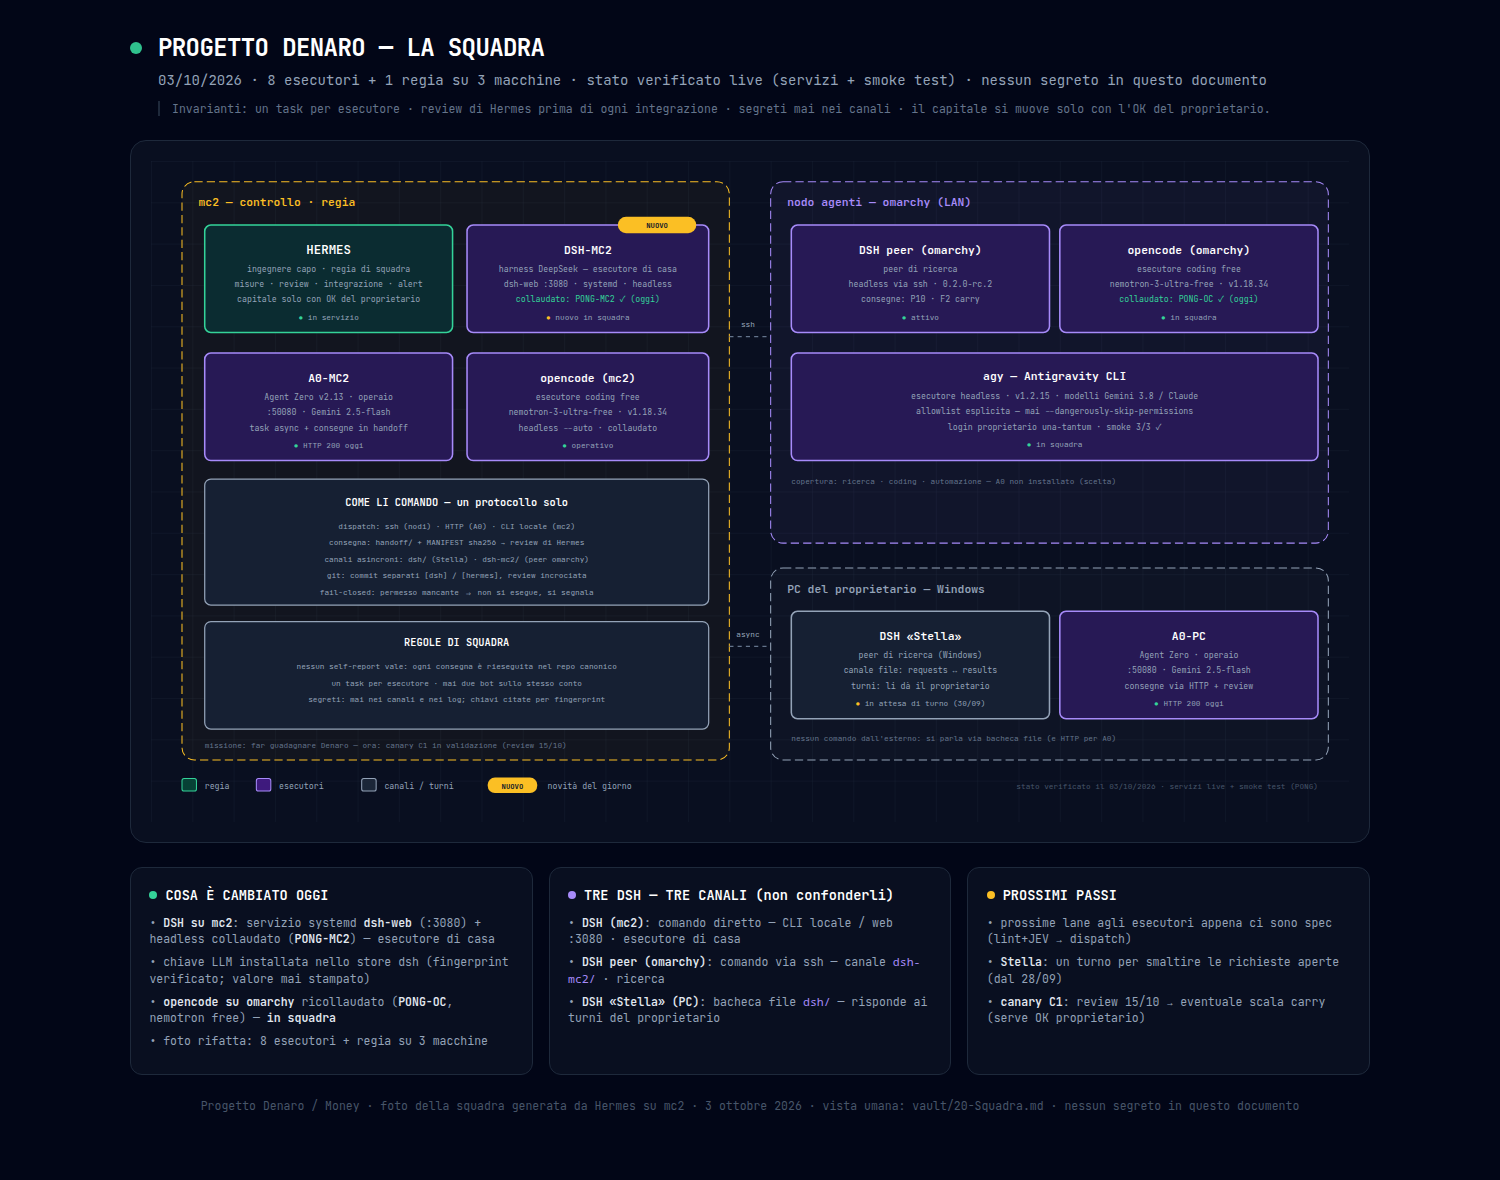
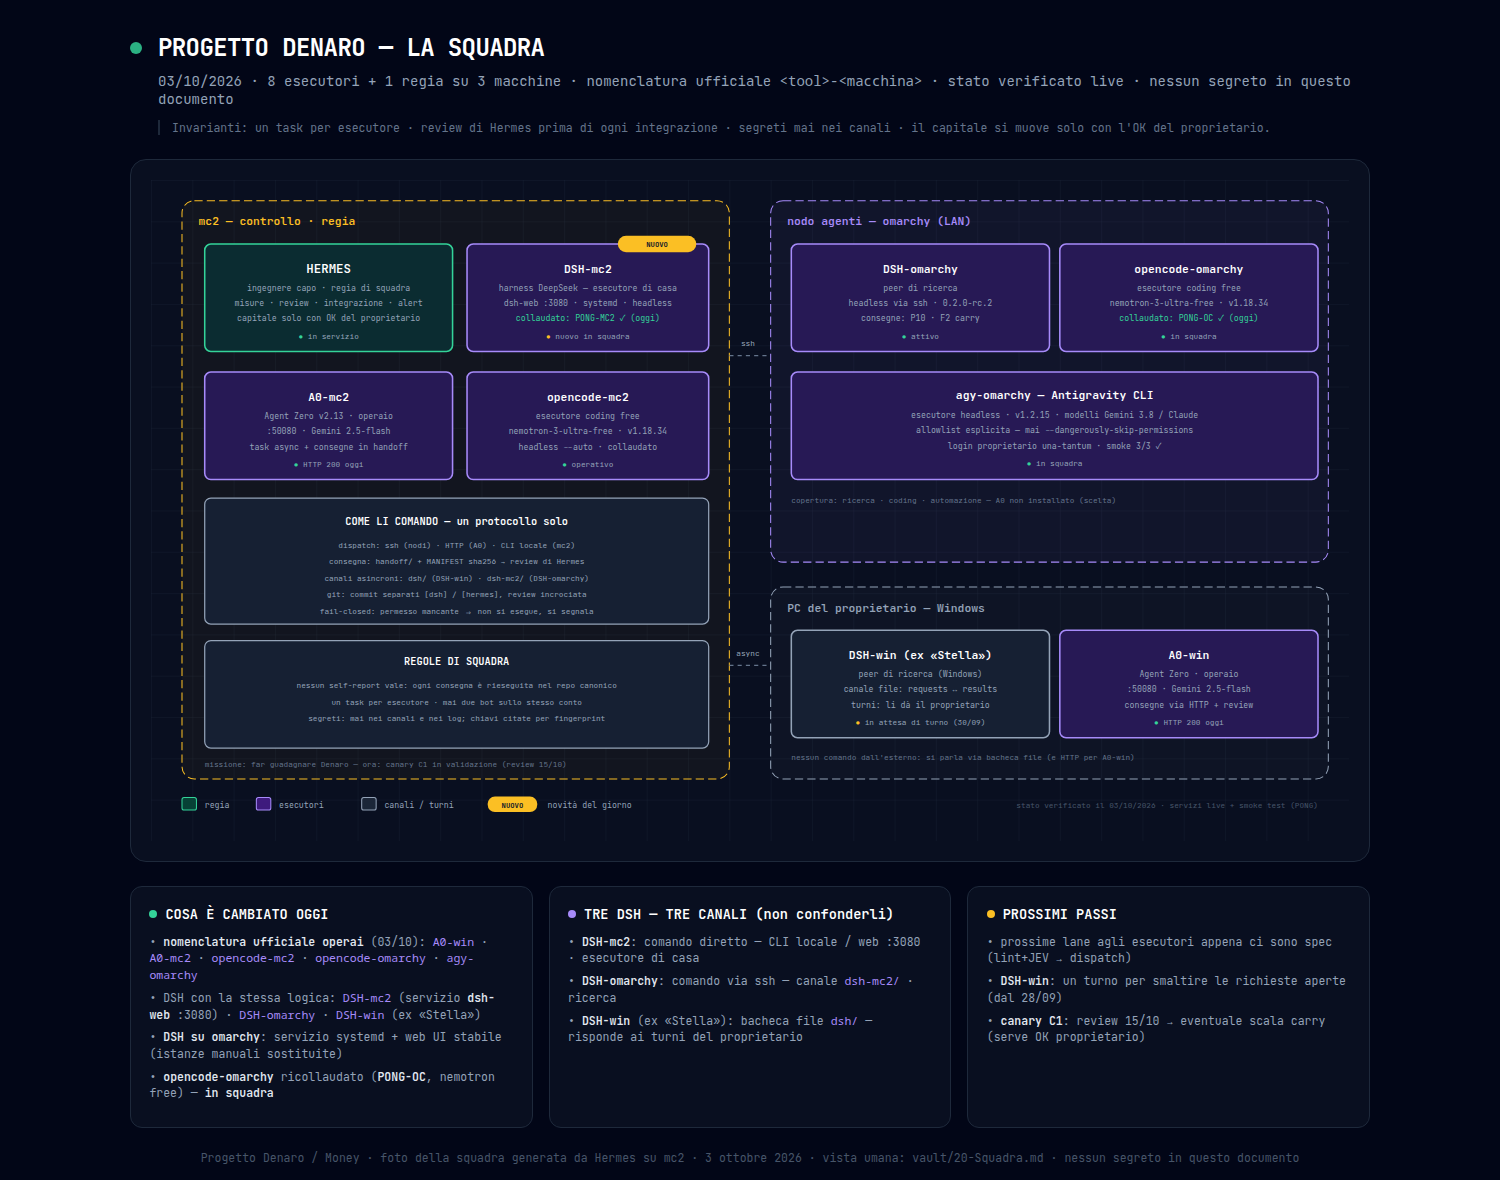
[hermes] nomenclatura ufficiale <tool>-<macchina>: A0-win/-mc2, opencode-mc2/-omarchy, agy-omarchy, DSH-mc2/-omarchy/-win (ex Stella) — foto squadra + vault + skill + canali aggiornati

diff --git a/FOTO_SQUADRA_2026-10-03.html b/FOTO_SQUADRA_2026-10-03.html
@@ -67,7 +67,7 @@
         <div class="pulse-dot"></div>
         <h1>PROGETTO DENARO — LA SQUADRA</h1>
       </div>
-      <p class="subtitle">03/10/2026 · 8 esecutori + 1 regia su 3 macchine · stato verificato live (servizi + smoke test) · nessun segreto in questo documento</p>
+      <p class="subtitle">03/10/2026 · 8 esecutori + 1 regia su 3 macchine · nomenclatura ufficiale <code>&lt;tool&gt;-&lt;macchina&gt;</code> · stato verificato live · nessun segreto in questo documento</p>
       <p class="invarianti">Invarianti: un task per esecutore · review di Hermes prima di ogni integrazione · segreti mai nei canali · il capitale si muove solo con l'OK del proprietario.</p>
     </div>
 
@@ -111,30 +111,30 @@
         <text x="172" y="137" fill="#94a3b8" font-size="8" text-anchor="middle">capitale solo con OK del proprietario</text>
         <text x="172" y="154" font-size="7.5" text-anchor="middle"><tspan fill="#34d399">●</tspan><tspan fill="#94a3b8"> in servizio</tspan></text>
 
-        <!-- DSH-MC2 -->
+        <!-- DSH-mc2 -->
         <rect x="306" y="62" width="234" height="104" rx="6" fill="rgba(15, 23, 42, 1)"/>
         <rect x="306" y="62" width="234" height="104" rx="6" fill="rgba(76, 29, 149, 0.4)" stroke="#a78bfa" stroke-width="1.5"/>
         <rect x="452" y="54" width="76" height="16" rx="8" fill="#fbbf24"/>
         <text x="490" y="65" fill="#0f172a" font-size="7" font-weight="700" text-anchor="middle">NUOVO</text>
-        <text x="423" y="90" fill="white" font-size="11" font-weight="600" text-anchor="middle">DSH-MC2</text>
+        <text x="423" y="90" fill="white" font-size="11" font-weight="600" text-anchor="middle">DSH-mc2</text>
         <text x="423" y="107" fill="#94a3b8" font-size="8" text-anchor="middle">harness DeepSeek — esecutore di casa</text>
         <text x="423" y="122" fill="#94a3b8" font-size="8" text-anchor="middle">dsh-web :3080 · systemd · headless</text>
         <text x="423" y="137" fill="#34d399" font-size="8" text-anchor="middle">collaudato: PONG-MC2 ✓ (oggi)</text>
         <text x="423" y="154" font-size="7.5" text-anchor="middle"><tspan fill="#fbbf24">●</tspan><tspan fill="#94a3b8"> nuovo in squadra</tspan></text>
 
-        <!-- A0-MC2 -->
+        <!-- A0-mc2 -->
         <rect x="52" y="186" width="240" height="104" rx="6" fill="rgba(15, 23, 42, 1)"/>
         <rect x="52" y="186" width="240" height="104" rx="6" fill="rgba(76, 29, 149, 0.4)" stroke="#a78bfa" stroke-width="1.5"/>
-        <text x="172" y="214" fill="white" font-size="11" font-weight="600" text-anchor="middle">A0-MC2</text>
+        <text x="172" y="214" fill="white" font-size="11" font-weight="600" text-anchor="middle">A0-mc2</text>
         <text x="172" y="231" fill="#94a3b8" font-size="8" text-anchor="middle">Agent Zero v2.13 · operaio</text>
         <text x="172" y="246" fill="#94a3b8" font-size="8" text-anchor="middle">:50080 · Gemini 2.5-flash</text>
         <text x="172" y="261" fill="#94a3b8" font-size="8" text-anchor="middle">task async + consegne in handoff</text>
         <text x="172" y="278" font-size="7.5" text-anchor="middle"><tspan fill="#34d399">●</tspan><tspan fill="#94a3b8"> HTTP 200 oggi</tspan></text>
 
-        <!-- opencode MC2 -->
+        <!-- opencode-mc2 -->
         <rect x="306" y="186" width="234" height="104" rx="6" fill="rgba(15, 23, 42, 1)"/>
         <rect x="306" y="186" width="234" height="104" rx="6" fill="rgba(76, 29, 149, 0.4)" stroke="#a78bfa" stroke-width="1.5"/>
-        <text x="423" y="214" fill="white" font-size="11" font-weight="600" text-anchor="middle">opencode (mc2)</text>
+        <text x="423" y="214" fill="white" font-size="11" font-weight="600" text-anchor="middle">opencode-mc2</text>
         <text x="423" y="231" fill="#94a3b8" font-size="8" text-anchor="middle">esecutore coding free</text>
         <text x="423" y="246" fill="#94a3b8" font-size="8" text-anchor="middle">nemotron-3-ultra-free · v1.18.34</text>
         <text x="423" y="261" fill="#94a3b8" font-size="8" text-anchor="middle">headless --auto · collaudato</text>
@@ -146,7 +146,7 @@
         <text x="296" y="334" fill="white" font-size="10" font-weight="600" text-anchor="middle">COME LI COMANDO — un protocollo solo</text>
         <text x="296" y="356" fill="#94a3b8" font-size="7.5" text-anchor="middle">dispatch: ssh (nodi) · HTTP (A0) · CLI locale (mc2)</text>
         <text x="296" y="372" fill="#94a3b8" font-size="7.5" text-anchor="middle">consegna: handoff/ + MANIFEST sha256 → review di Hermes</text>
-        <text x="296" y="388" fill="#94a3b8" font-size="7.5" text-anchor="middle">canali asincroni: dsh/ (Stella) · dsh-mc2/ (peer omarchy)</text>
+        <text x="296" y="388" fill="#94a3b8" font-size="7.5" text-anchor="middle">canali asincroni: dsh/ (DSH-win) · dsh-mc2/ (DSH-omarchy)</text>
         <text x="296" y="404" fill="#94a3b8" font-size="7.5" text-anchor="middle">git: commit separati [dsh] / [hermes], review incrociata</text>
         <text x="296" y="420" fill="#94a3b8" font-size="7.5" text-anchor="middle">fail-closed: permesso mancante ⇒ non si esegue, si segnala</text>
 
@@ -161,28 +161,28 @@
         <text x="52" y="568" fill="#64748b" font-size="7.5">missione: far guadagnare Denaro — ora: canary C1 in validazione (review 15/10)</text>
 
         <!-- ============ OMARCHY CONTENT ============ -->
-        <!-- DSH omarchy -->
+        <!-- DSH-omarchy -->
         <rect x="620" y="62" width="250" height="104" rx="6" fill="rgba(15, 23, 42, 1)"/>
         <rect x="620" y="62" width="250" height="104" rx="6" fill="rgba(76, 29, 149, 0.4)" stroke="#a78bfa" stroke-width="1.5"/>
-        <text x="745" y="90" fill="white" font-size="11" font-weight="600" text-anchor="middle">DSH peer (omarchy)</text>
+        <text x="745" y="90" fill="white" font-size="11" font-weight="600" text-anchor="middle">DSH-omarchy</text>
         <text x="745" y="107" fill="#94a3b8" font-size="8" text-anchor="middle">peer di ricerca</text>
         <text x="745" y="122" fill="#94a3b8" font-size="8" text-anchor="middle">headless via ssh · 0.2.0-rc.2</text>
         <text x="745" y="137" fill="#94a3b8" font-size="8" text-anchor="middle">consegne: P10 · F2 carry</text>
         <text x="745" y="154" font-size="7.5" text-anchor="middle"><tspan fill="#34d399">●</tspan><tspan fill="#94a3b8"> attivo</tspan></text>
 
-        <!-- opencode omarchy -->
+        <!-- opencode-omarchy -->
         <rect x="880" y="62" width="250" height="104" rx="6" fill="rgba(15, 23, 42, 1)"/>
         <rect x="880" y="62" width="250" height="104" rx="6" fill="rgba(76, 29, 149, 0.4)" stroke="#a78bfa" stroke-width="1.5"/>
-        <text x="1005" y="90" fill="white" font-size="11" font-weight="600" text-anchor="middle">opencode (omarchy)</text>
+        <text x="1005" y="90" fill="white" font-size="11" font-weight="600" text-anchor="middle">opencode-omarchy</text>
         <text x="1005" y="107" fill="#94a3b8" font-size="8" text-anchor="middle">esecutore coding free</text>
         <text x="1005" y="122" fill="#94a3b8" font-size="8" text-anchor="middle">nemotron-3-ultra-free · v1.18.34</text>
         <text x="1005" y="137" fill="#34d399" font-size="8" text-anchor="middle">collaudato: PONG-OC ✓ (oggi)</text>
         <text x="1005" y="154" font-size="7.5" text-anchor="middle"><tspan fill="#34d399">●</tspan><tspan fill="#94a3b8"> in squadra</tspan></text>
 
-        <!-- agy -->
+        <!-- agy-omarchy -->
         <rect x="620" y="186" width="510" height="104" rx="6" fill="rgba(15, 23, 42, 1)"/>
         <rect x="620" y="186" width="510" height="104" rx="6" fill="rgba(76, 29, 149, 0.4)" stroke="#a78bfa" stroke-width="1.5"/>
-        <text x="875" y="212" fill="white" font-size="11" font-weight="600" text-anchor="middle">agy — Antigravity CLI</text>
+        <text x="875" y="212" fill="white" font-size="11" font-weight="600" text-anchor="middle">agy-omarchy — Antigravity CLI</text>
         <text x="875" y="230" fill="#94a3b8" font-size="8" text-anchor="middle">esecutore headless · v1.2.15 · modelli Gemini 3.8 / Claude</text>
         <text x="875" y="245" fill="#94a3b8" font-size="8" text-anchor="middle">allowlist esplicita — mai --dangerously-skip-permissions</text>
         <text x="875" y="260" fill="#94a3b8" font-size="8" text-anchor="middle">login proprietario una-tantum · smoke 3/3 ✓</text>
@@ -190,24 +190,24 @@
         <text x="620" y="313" fill="#64748b" font-size="7.5">copertura: ricerca · coding · automazione — A0 non installato (scelta)</text>
 
         <!-- ============ PC CONTENT ============ -->
-        <!-- Stella -->
+        <!-- DSH-win -->
         <rect x="620" y="436" width="250" height="104" rx="6" fill="rgba(15, 23, 42, 1)"/>
         <rect x="620" y="436" width="250" height="104" rx="6" fill="rgba(30, 41, 59, 0.5)" stroke="#94a3b8" stroke-width="1.5"/>
-        <text x="745" y="464" fill="white" font-size="11" font-weight="600" text-anchor="middle">DSH «Stella»</text>
+        <text x="745" y="464" fill="white" font-size="11" font-weight="600" text-anchor="middle">DSH-win (ex «Stella»)</text>
         <text x="745" y="481" fill="#94a3b8" font-size="8" text-anchor="middle">peer di ricerca (Windows)</text>
         <text x="745" y="496" fill="#94a3b8" font-size="8" text-anchor="middle">canale file: requests ↔ results</text>
         <text x="745" y="511" fill="#94a3b8" font-size="8" text-anchor="middle">turni: li dà il proprietario</text>
         <text x="745" y="528" font-size="7.5" text-anchor="middle"><tspan fill="#fbbf24">●</tspan><tspan fill="#94a3b8"> in attesa di turno (30/09)</tspan></text>
 
-        <!-- A0-PC -->
+        <!-- A0-win -->
         <rect x="880" y="436" width="250" height="104" rx="6" fill="rgba(15, 23, 42, 1)"/>
         <rect x="880" y="436" width="250" height="104" rx="6" fill="rgba(76, 29, 149, 0.4)" stroke="#a78bfa" stroke-width="1.5"/>
-        <text x="1005" y="464" fill="white" font-size="11" font-weight="600" text-anchor="middle">A0-PC</text>
+        <text x="1005" y="464" fill="white" font-size="11" font-weight="600" text-anchor="middle">A0-win</text>
         <text x="1005" y="481" fill="#94a3b8" font-size="8" text-anchor="middle">Agent Zero · operaio</text>
         <text x="1005" y="496" fill="#94a3b8" font-size="8" text-anchor="middle">:50080 · Gemini 2.5-flash</text>
         <text x="1005" y="511" fill="#94a3b8" font-size="8" text-anchor="middle">consegne via HTTP + review</text>
         <text x="1005" y="528" font-size="7.5" text-anchor="middle"><tspan fill="#34d399">●</tspan><tspan fill="#94a3b8"> HTTP 200 oggi</tspan></text>
-        <text x="620" y="562" fill="#64748b" font-size="7.5">nessun comando dall'esterno: si parla via bacheca file (e HTTP per A0)</text>
+        <text x="620" y="562" fill="#64748b" font-size="7.5">nessun comando dall'esterno: si parla via bacheca file (e HTTP per A0-win)</text>
 
         <!-- ============ LEGEND ============ -->
         <rect x="30" y="598" width="14" height="12" rx="2" fill="rgba(6, 78, 59, 0.8)" stroke="#34d399" stroke-width="1"/>
@@ -231,10 +231,10 @@
           <h3>COSA È CAMBIATO OGGI</h3>
         </div>
         <ul>
-          <li>• <b>DSH su mc2</b>: servizio systemd <b>dsh-web</b> (:3080) + headless collaudato (<b>PONG-MC2</b>) — esecutore di casa</li>
-          <li>• chiave LLM installata nello store dsh (fingerprint verificato; valore mai stampato)</li>
-          <li>• <b>opencode su omarchy</b> ricollaudato (<b>PONG-OC</b>, nemotron free) — <b>in squadra</b></li>
-          <li>• foto rifatta: 8 esecutori + regia su 3 macchine</li>
+          <li>• <b>nomenclatura ufficiale operai</b> (03/10): <code>A0-win</code> · <code>A0-mc2</code> · <code>opencode-mc2</code> · <code>opencode-omarchy</code> · <code>agy-omarchy</code></li>
+          <li>• DSH con la stessa logica: <code>DSH-mc2</code> (servizio <b>dsh-web</b> :3080) · <code>DSH-omarchy</code> · <code>DSH-win</code> (ex «Stella»)</li>
+          <li>• <b>DSH su omarchy</b>: servizio systemd + web UI stabile (istanze manuali sostituite)</li>
+          <li>• <b>opencode-omarchy</b> ricollaudato (<b>PONG-OC</b>, nemotron free) — <b>in squadra</b></li>
         </ul>
       </div>
 
@@ -244,9 +244,9 @@
           <h3>TRE DSH — TRE CANALI (non confonderli)</h3>
         </div>
         <ul>
-          <li>• <b>DSH (mc2)</b>: comando diretto — CLI locale / web :3080 · esecutore di casa</li>
-          <li>• <b>DSH peer (omarchy)</b>: comando via ssh — canale <code>dsh-mc2/</code> · ricerca</li>
-          <li>• <b>DSH «Stella» (PC)</b>: bacheca file <code>dsh/</code> — risponde ai turni del proprietario</li>
+          <li>• <b>DSH-mc2</b>: comando diretto — CLI locale / web :3080 · esecutore di casa</li>
+          <li>• <b>DSH-omarchy</b>: comando via ssh — canale <code>dsh-mc2/</code> · ricerca</li>
+          <li>• <b>DSH-win</b> (ex «Stella»): bacheca file <code>dsh/</code> — risponde ai turni del proprietario</li>
         </ul>
       </div>
 
@@ -257,7 +257,7 @@
         </div>
         <ul>
           <li>• prossime lane agli esecutori appena ci sono spec (lint+JEV → dispatch)</li>
-          <li>• <b>Stella</b>: un turno per smaltire le richieste aperte (dal 28/09)</li>
+          <li>• <b>DSH-win</b>: un turno per smaltire le richieste aperte (dal 28/09)</li>
           <li>• <b>canary C1</b>: review 15/10 → eventuale scala carry (serve OK proprietario)</li>
         </ul>
       </div>

diff --git a/vault/20-Squadra.md b/vault/20-Squadra.md
@@ -1,24 +1,27 @@
 # Squadra e canali
 
 Aggiornata: **03/10/2026** — la squadra ora ha **8 esecutori + 1 regia, su 3 macchine**.
+**Nomenclatura ufficiale (dal 03/10): `<tool>-<macchina>`** — es. `A0-win`, `opencode-omarchy`.
 
 ## Chi (foto: `money/FOTO_SQUADRA_2026-10-03.png`)
 
 | Chi | Dove | Ruolo |
 |---|---|---|
-| **Hermes** | mc2 | ingegnere capo: misura, integra, orchestra; riesegue e verifica ogni consegna |
-| **DSH (mc2)** | mc2 | esecutore di casa — harness DeepSeek: servizio `dsh-web` :3080 + headless CLI (collaudato 03/10) |
-| **DSH peer** | nodo agenti (omarchy) | ricerca via ssh; canale `hermes_bridge/dsh-mc2/` (P10, F2 carry) |
-| **DSH «Stella»** | PC del proprietario | peer di ricerca; canale file `hermes_bridge/dsh/` — risponde quando ha un turno |
-| **A0-MC2 · A0-PC** | mc2 + PC | operai Agent Zero (task async, consegne in handoff) — Gemini 2.5 |
-| **opencode ×2** | mc2 + nodo agenti | coding free (nemotron-3-ultra), collaudati 03/10 |
-| **agy (Antigravity)** | nodo agenti | esecutore headless (Gemini 3.8 / Claude) — allowlist |
-| **Proprietario** | — | decide, autorizza il live, dà i turni a Stella |
+| **Hermes** | mc2 | regia: misura, integra, orchestra; riesegue e verifica ogni consegna |
+| **A0-win** | PC (Windows) | operaio — Agent Zero v2.13, Gemini 2.5-flash (:50080) |
+| **A0-mc2** | mc2 (container) | operaio — Agent Zero v2.13, Gemini 2.5-flash (:50080) |
+| **opencode-mc2** | mc2 | operaio coding — nemotron-3-ultra free (headless --auto) |
+| **opencode-omarchy** | nodo agenti (omarchy) | operaio coding — nemotron-3-ultra free (collaudato 03/10) |
+| **agy-omarchy** | nodo agenti (omarchy) | operaio headless — Antigravity CLI (Gemini 3.8 / Claude), allowlist |
+| **DSH-mc2** | mc2 | peer — harness DeepSeek: servizio `dsh-web` :3080 + headless (collaudato 03/10) |
+| **DSH-omarchy** | nodo agenti (omarchy) | peer ricerca via ssh; canale `hermes_bridge/dsh-mc2/` (P10, F2 carry) |
+| **DSH-win** (ex «Stella») | PC (Windows) | peer storico; canale file `hermes_bridge/dsh/` — risponde quando ha un turno |
+| **Proprietario** | — | decide, autorizza il live, dà i turni |
 
 ## Canali
-- **DSH «Stella»** (PC): bacheca `hermes_bridge/dsh/` — `requests.md` (io→DSH) ↔ `results.md` (DSH→io). Protocollo in `PROTOCOLLO_DSH.md`. Mai silenzio: ogni richiesta ha ACK/DONE/FAILED. **Turni**: li dà il proprietario.
-- **DSH peer** (omarchy): canale `hermes_bridge/dsh-mc2/` (requests/results + `handoff/` con MANIFEST sha256). Turni: li do io via ssh.
-- **DSH (mc2)**: nessun canale file — lo comando direttamente (CLI locale / web :3080).
+- **DSH-win** (PC): bacheca `hermes_bridge/dsh/` — `requests.md` (io→DSH) ↔ `results.md` (DSH→io). Protocollo in `PROTOCOLLO_DSH.md`. Mai silenzio: ogni richiesta ha ACK/DONE/FAILED. **Turni**: li dà il proprietario.
+- **DSH-omarchy** (omarchy): canale `hermes_bridge/dsh-mc2/` (requests/results + `handoff/` con MANIFEST sha256). Turni: li do io via ssh.
+- **DSH-mc2** (mc2): nessun canale file — lo comando direttamente (CLI locale / web :3080).
 - **Coda di ricerca**: `money/coda_catena/` — una spec per nodo, presa visibile ("STATO: PRESA_DA …" pushata subito), esiti in `money/prove/`.
 - **Questo vault**: la vista umana del progetto. La verità sta nei file citati.
 - **Dashboard flotta**: https://denaro.grivetto.eu

diff --git a/vault/30-Infrastruttura.md b/vault/30-Infrastruttura.md
@@ -3,10 +3,10 @@
 ## Nodi
 | Nodo | Ruolo | Cosa gira |
 |---|---|---|
-| **mc2** | regia + ricerca | Hermes, fabbrica ×100 (master 3 s), bridge/canali, Zabbix «Money», A0-MC2, **DSH (dsh-web :3080 + headless)** |
+| **mc2** | regia + ricerca | Hermes, fabbrica ×100 (master 3 s), bridge/canali, Zabbix «Money», A0-mc2, **DSH-mc2 (dsh-web :3080 + headless)** |
 | **MARCODG1** | lato exchange + web | banco a secco (5 min, DRY-RUN), aggregatore :8912, dashboard/landing, Grafana, **canary C1 live**, worker fabbrica |
 | **nuvola** | appoggio | health, exporter, zabbix-agent + tunnel, worker fabbrica |
-| **nodo agenti** (Omarchy) | agenti | **DSH** (headless, canale `dsh-mc2` + web UI **`dsh-web` :3080** come servizio) + **opencode** (nemotron-3-ultra-free) + **agy** (Antigravity): operativi e collaudati il 03/10; A0 non installato (non richiesto) |
+| **nodo agenti** (Omarchy) | agenti | **DSH-omarchy** (headless, canale `dsh-mc2` + web UI `dsh-web` :3080 servizio) + **opencode-omarchy** (nemotron-3-ultra-free) + **agy-omarchy** (Antigravity): operativi e collaudati il 03/10; A0 non installato (non richiesto) |
 
 ## URL pubblici
 - Dashboard flotta: **https://denaro.grivetto.eu** (json: `/api/infra.json`)
